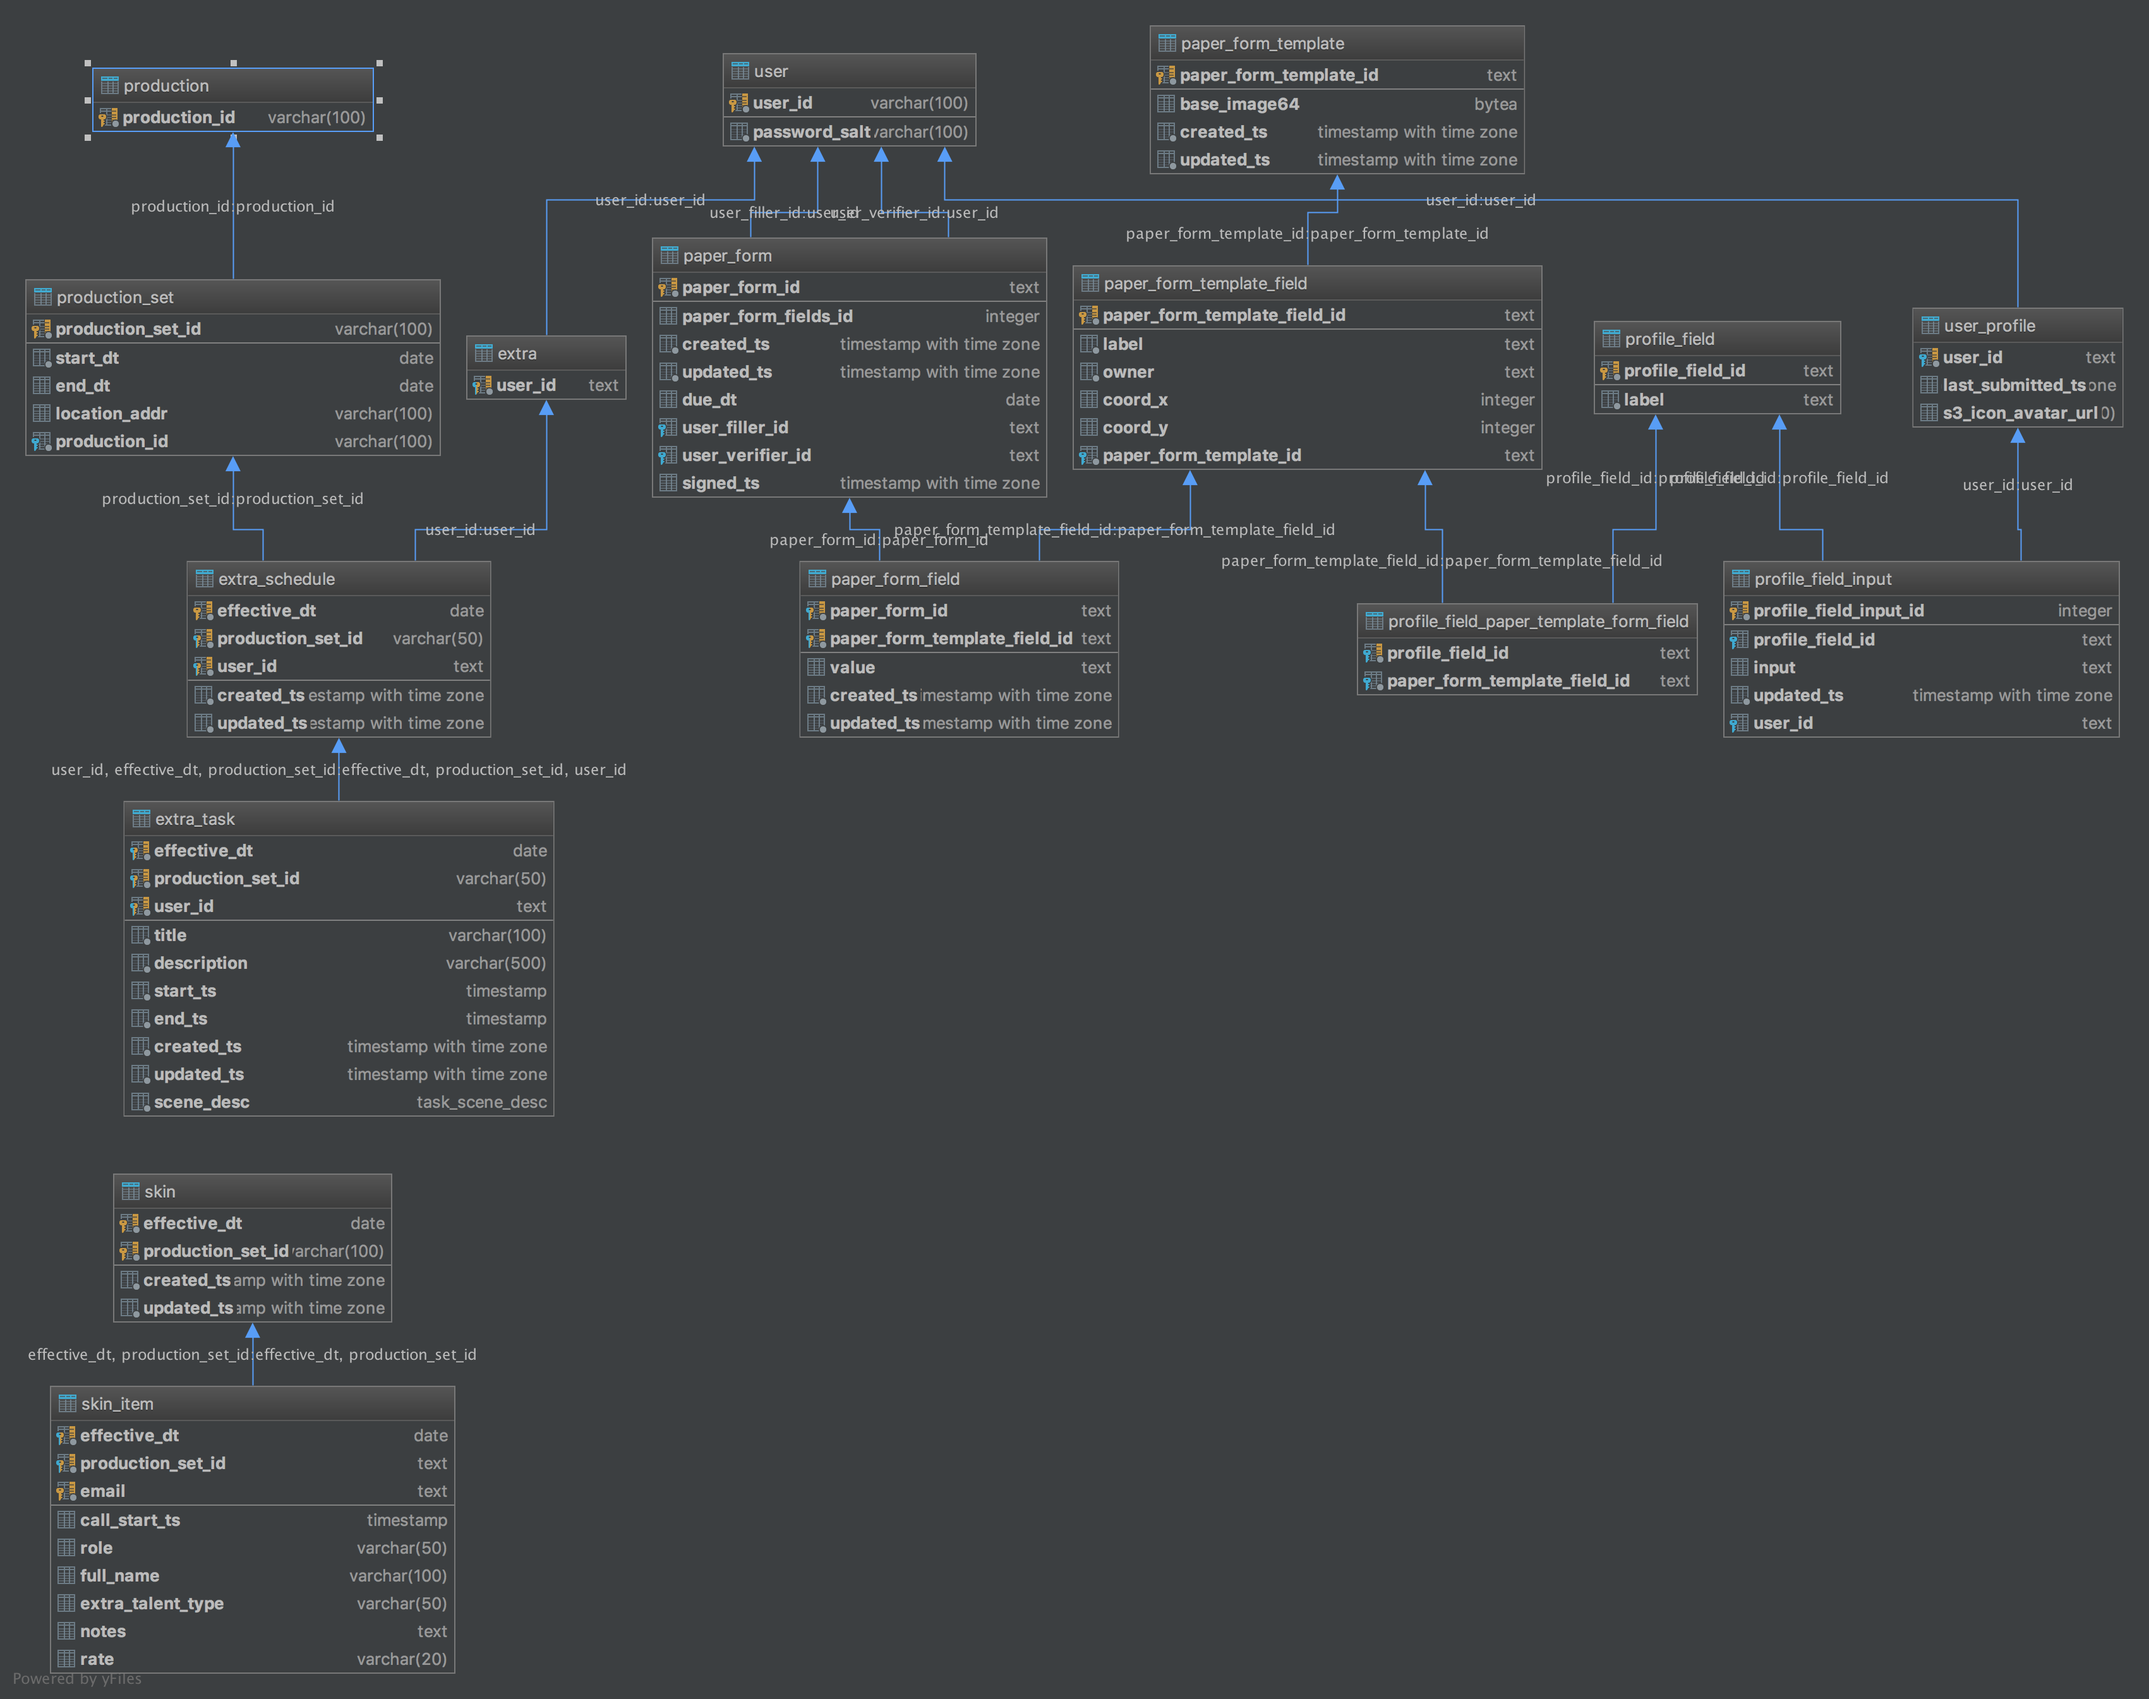
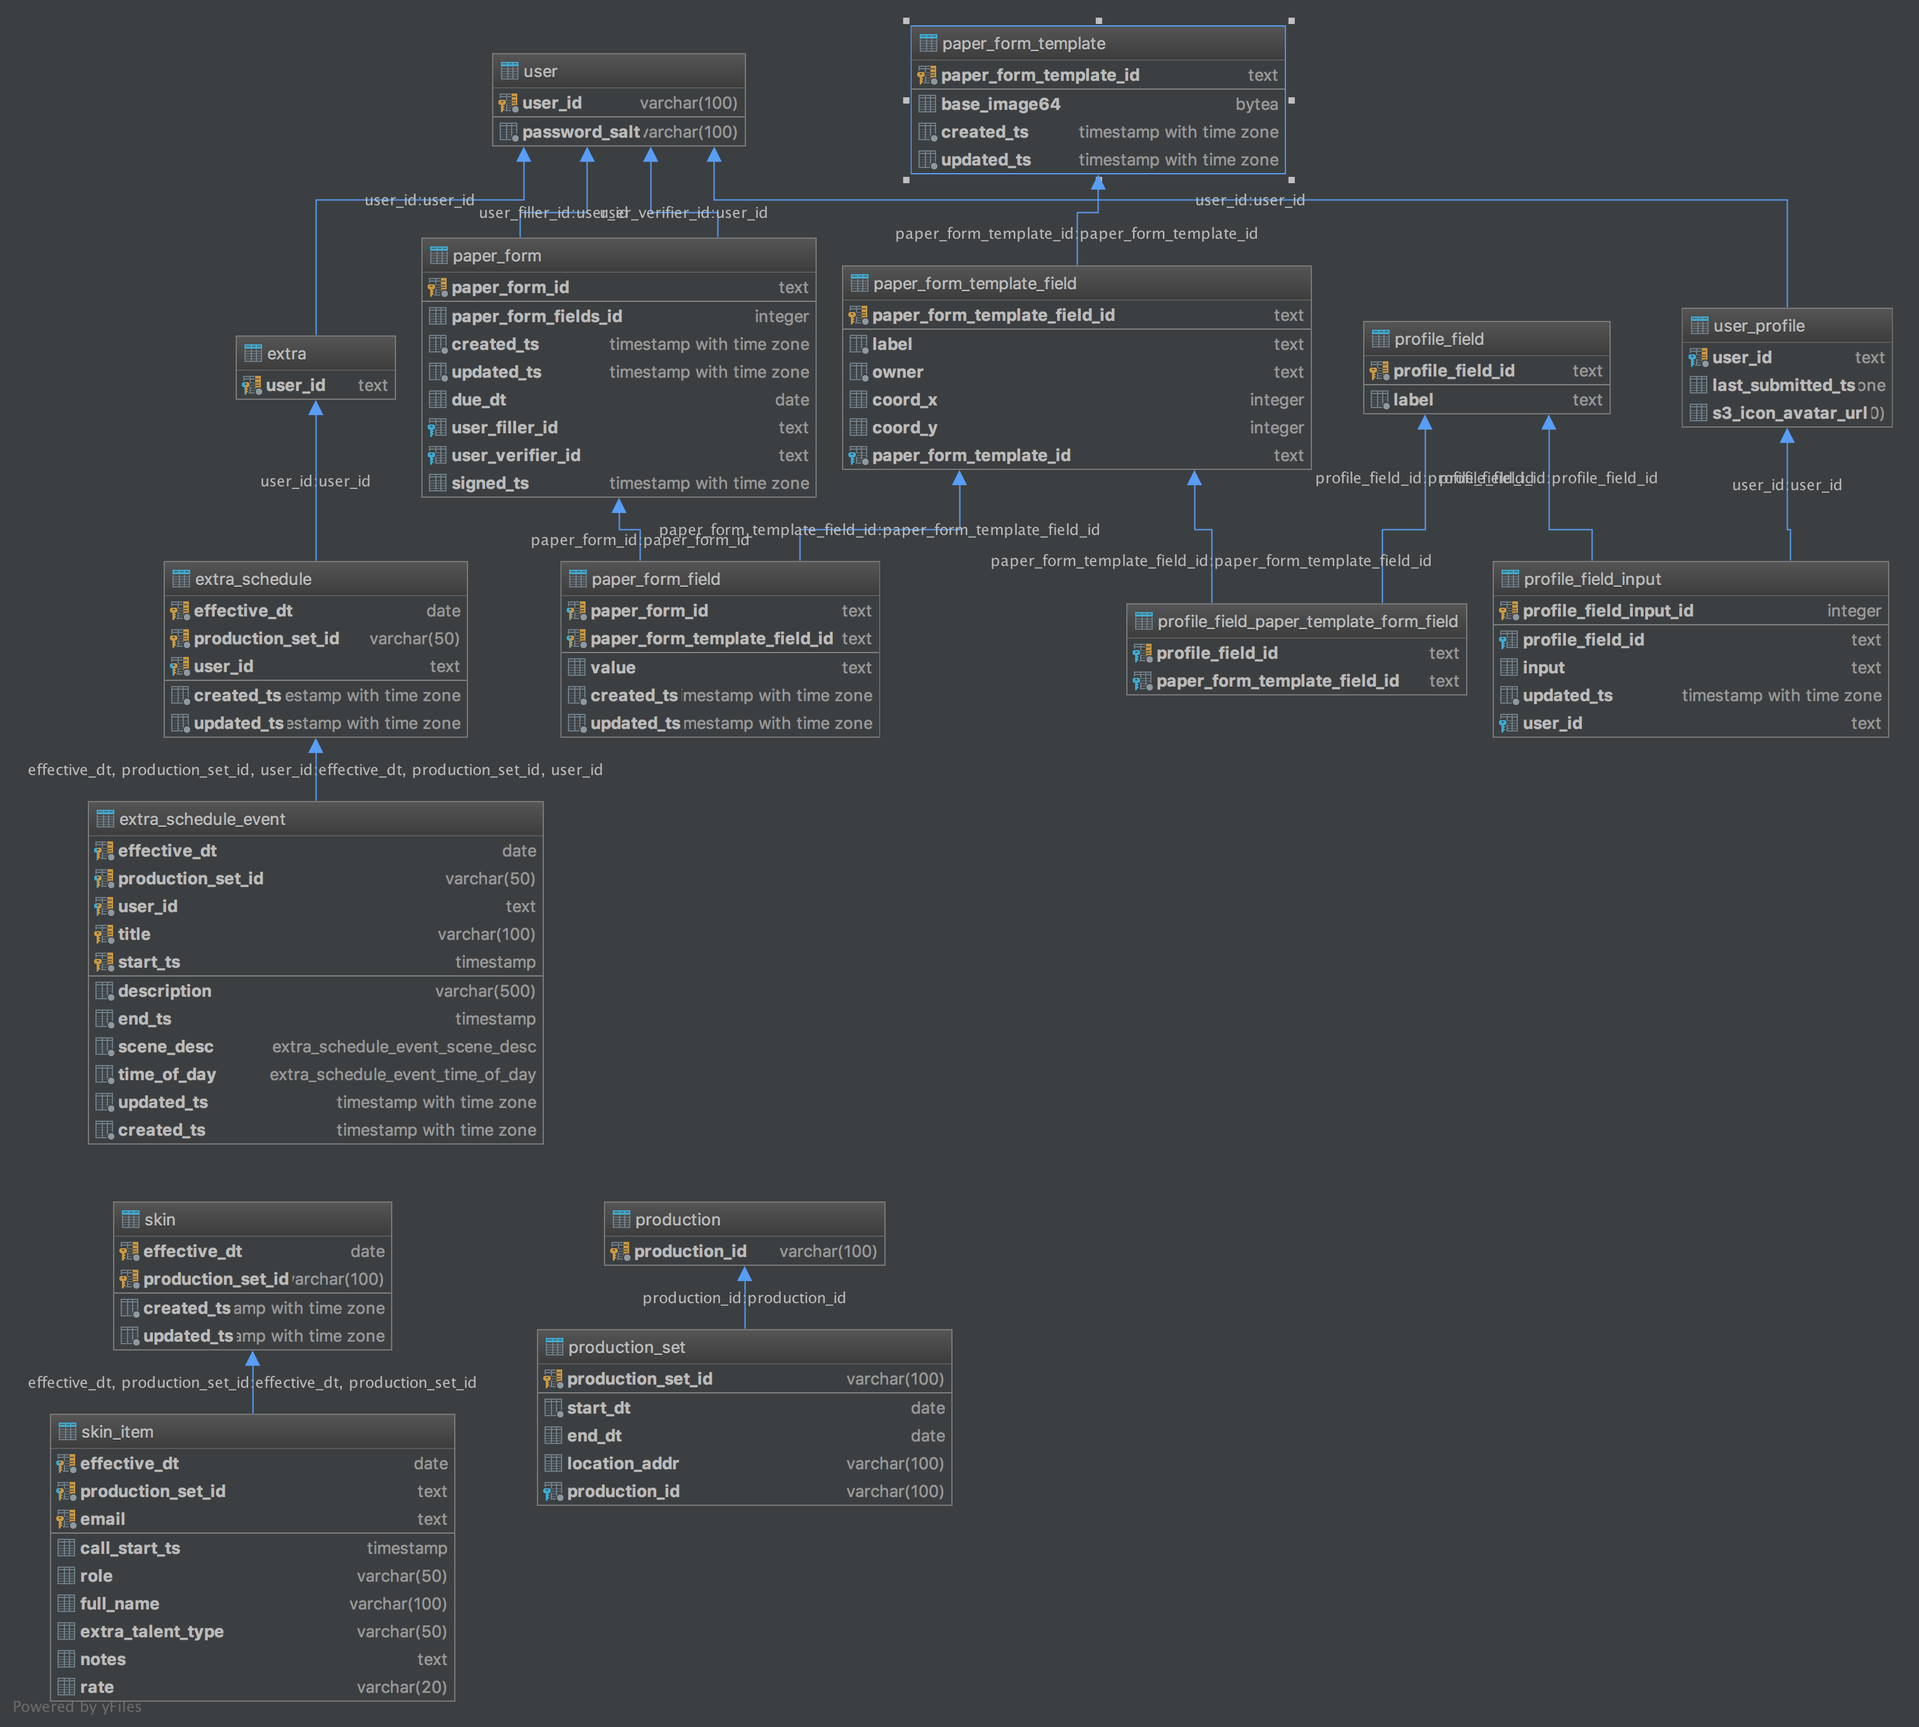
Updated extra schedule event. Provide get and set functions

diff --git a/db/README.md b/db/README.md
@@ -52,7 +52,62 @@ SELECT * FROM map_extra_profile_fields('test@email.com');
 ```
 
 
+#### Get extra schedule
+*get_extra_schedule*
+*PARAMS:*
+p_effective_dt DATE, p_user_id VARCHAR(100)
+
+*RETURNS*
+RETURNS TABLE(
+    effective_dt DATE,
+    production_set_id VARCHAR(50),
+    user_id TEXT,
+    title VARCHAR(100),
+    description VARCHAR(100),
+    start_ts TIMESTAMP WITHOUT TIME ZONE,
+    end_ts TIMESTAMP WITHOUT TIME ZONE,
+    scene_desc extra_schedule_event_scene_desc,
+    time_of_day extra_schedule_event_time_of_day
+  )
+
+```
+SELECT * FROM get_extra_schedule('2017-03-21', 'test@fake.com');  
+
+```
+
 ### Mutations
+
+#### Add Extra Schedule Event
+*add_extra_schedule_event*
+**Notes: Will insert a new schedule for event if no schedule exists for this event**
+*PARAMETERS*
+(p_effective_dt DATE,
+    p_production_set_id VARCHAR(50),
+    p_user_id TEXT,
+    p_title VARCHAR(100),
+    p_description VARCHAR(100),
+    p_start_ts TIMESTAMP WITH TIME ZONE,
+    p_end_ts TIMESTAMP WITH TIME ZONE,
+    p_scene_desc extra_schedule_event_scene_desc,
+    p_time_of_day extra_schedule_event_time_of_day
+  )
+*RETURN*
+TEXT ('SUCCESS')
+
+```
+SELECT * FROM
+  add_extra_schedule_event
+  ('2017-03-21'
+  , 'RunaBetterSet'
+  , 'test@fake.com'
+  , 'Scene 1'
+  , 'Act nicely'
+  , to_timestamp('10:00', 'HH24:MI')
+  , to_timestamp('13:00', 'HH24:MI')
+  , 'INTERIOR'
+  , 'DAY');
+```
+
 
 #### Set User Profile Photo
 set_user_profile_photo -> (p_user_id: TEXT, p_b64_image BYTEA) -> VARCHAR(500)
